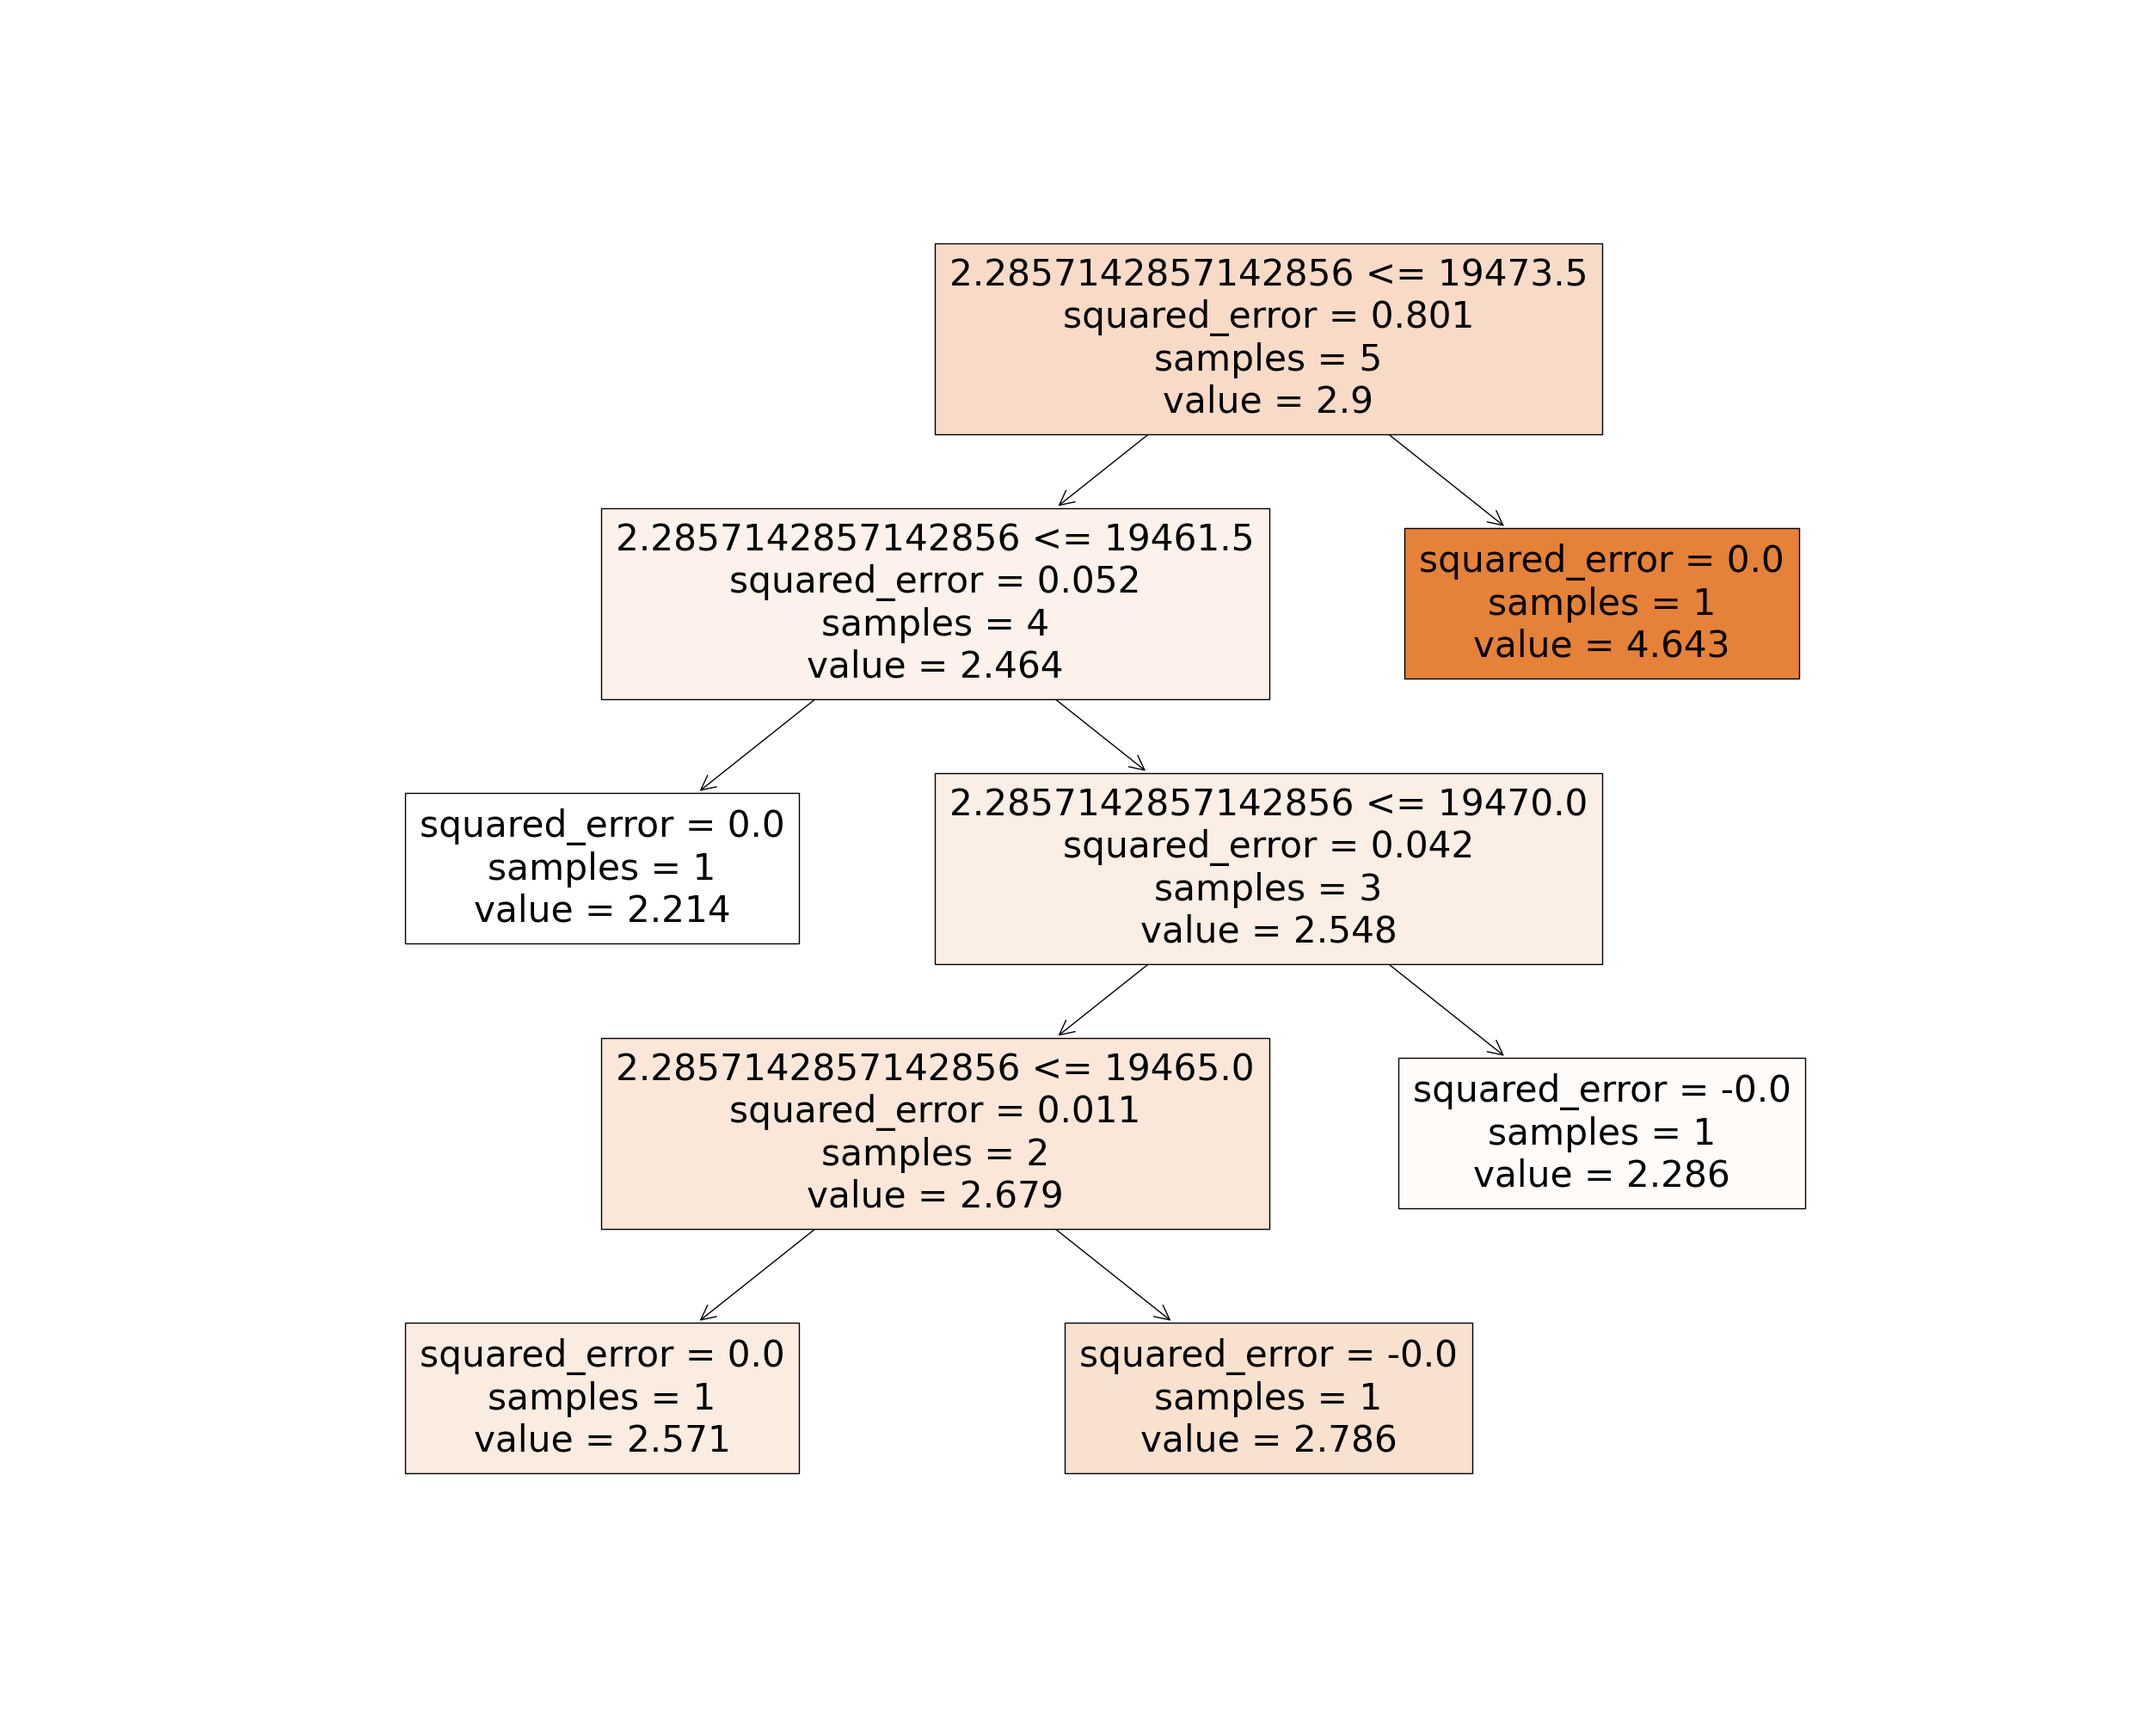
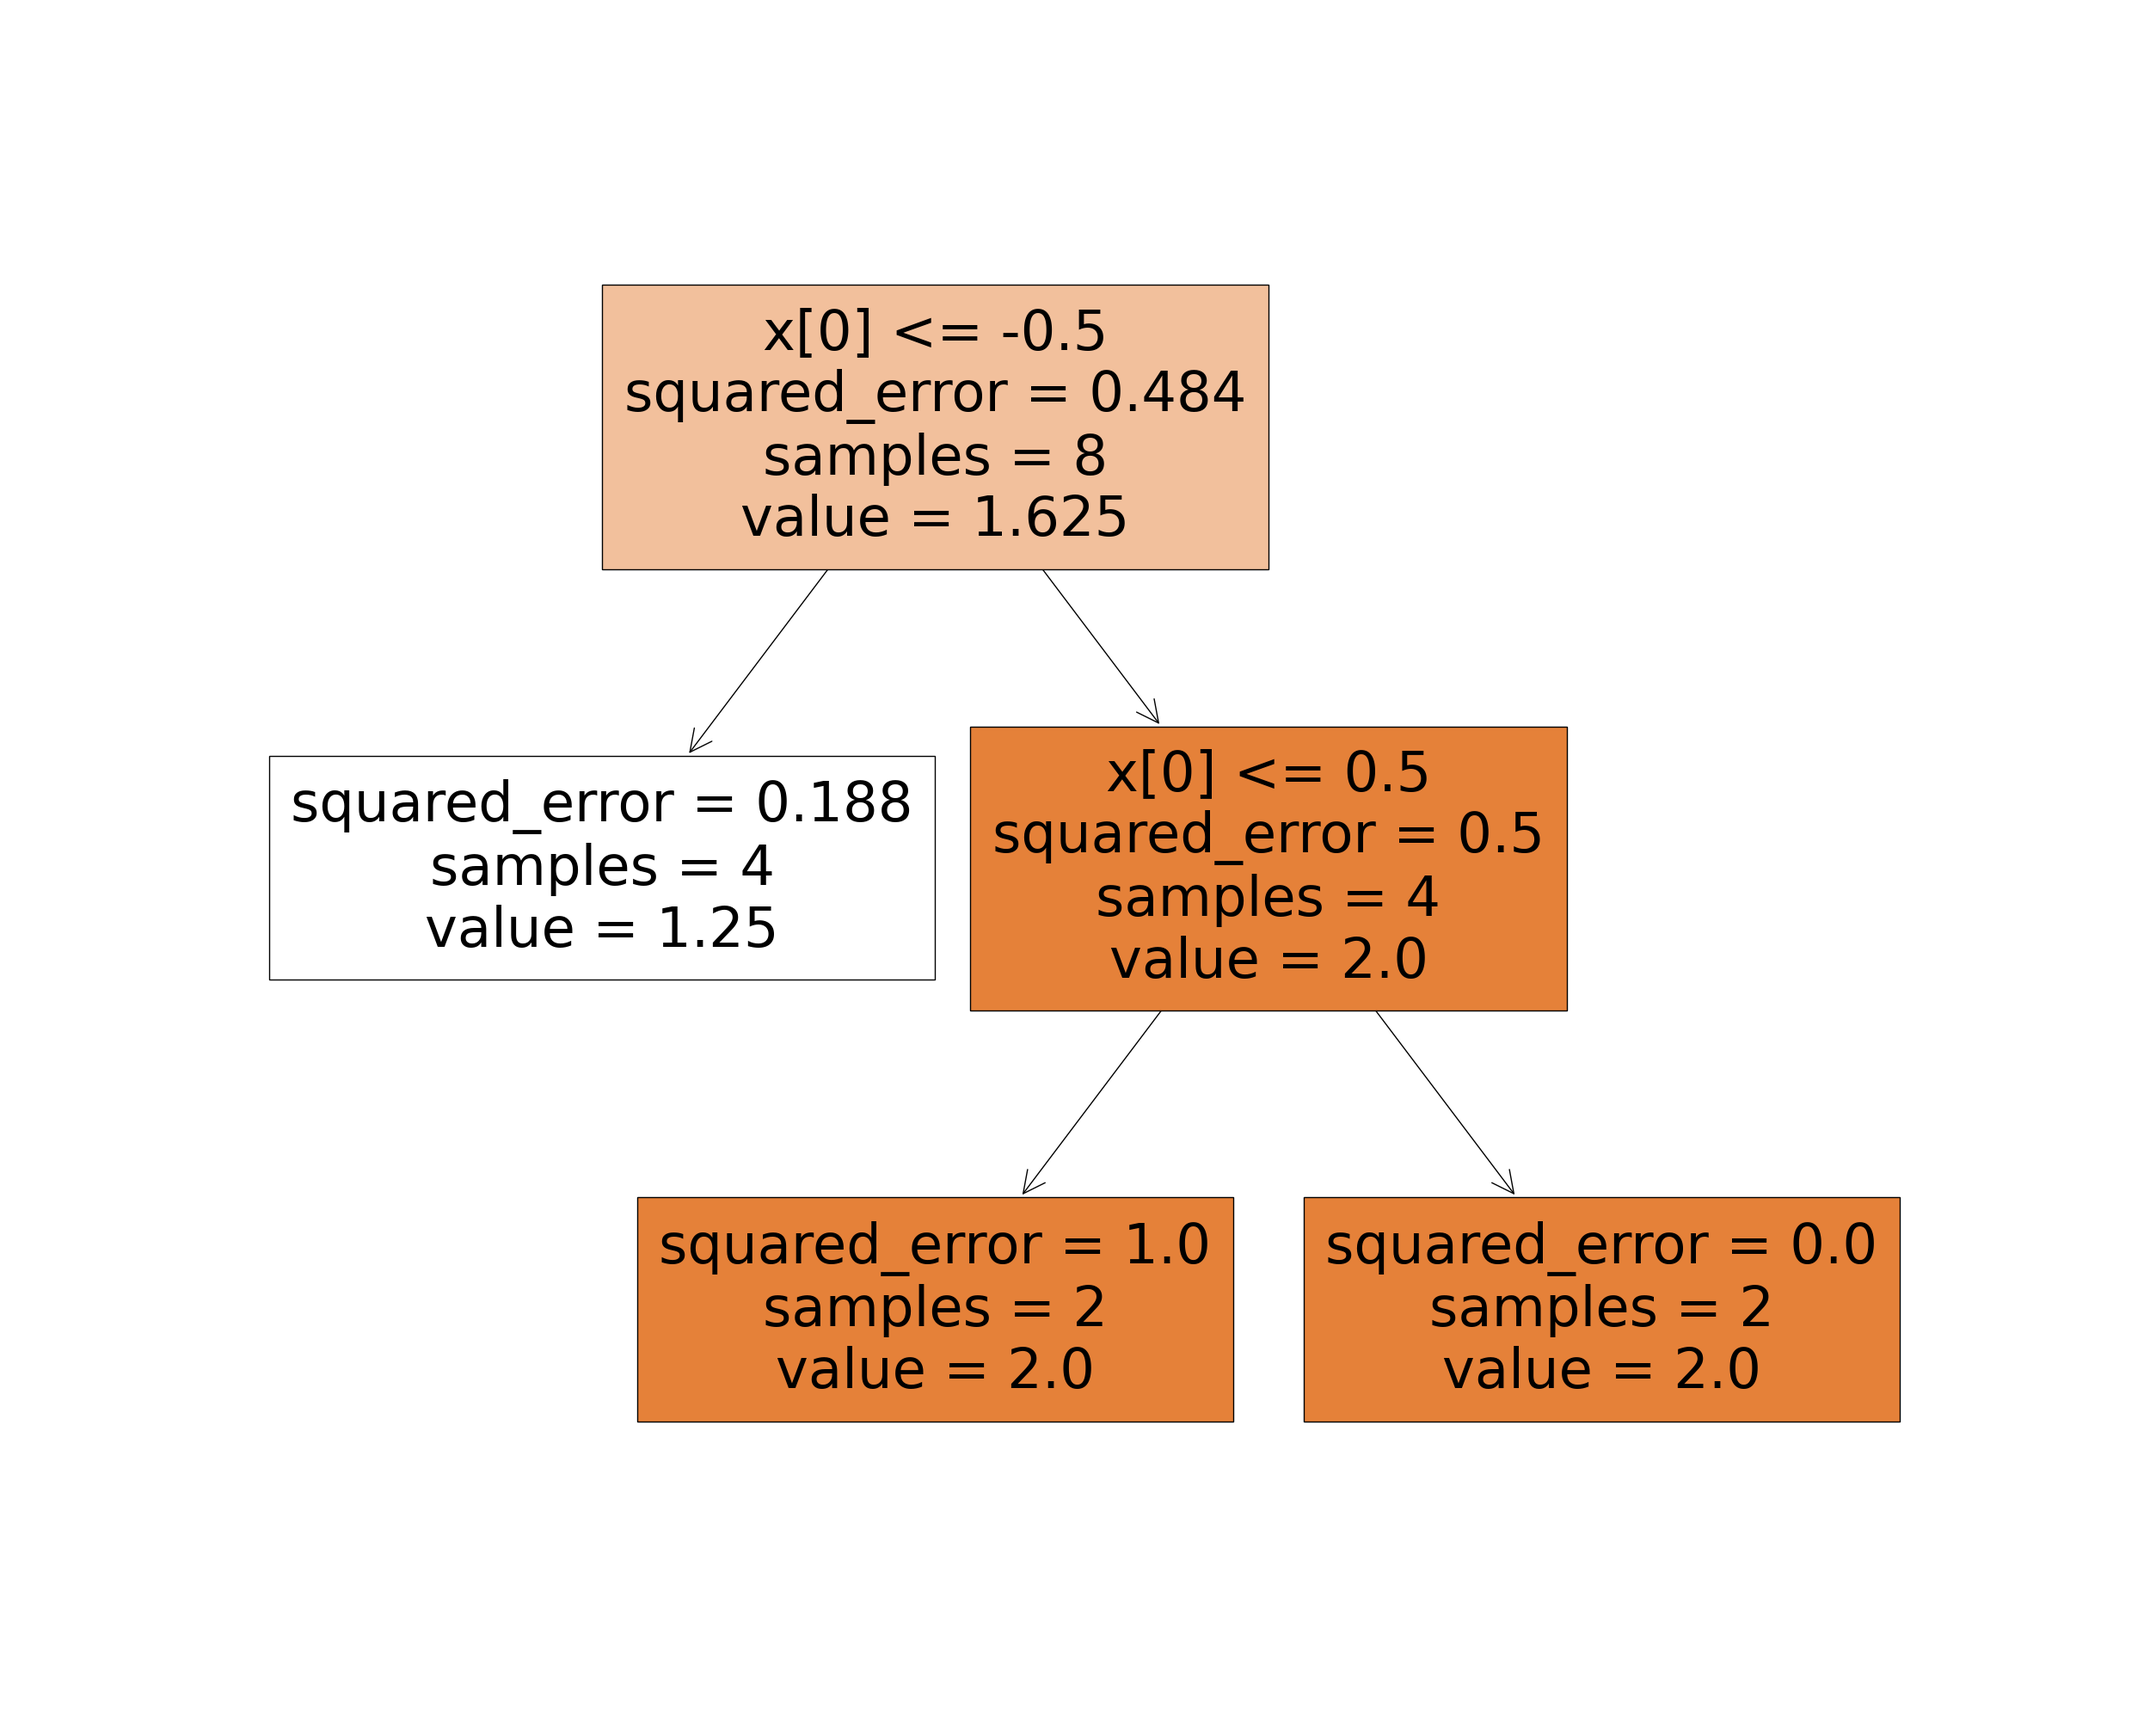
gfdsdfds

Changed region(s): [[0.1248, 0.124, 0.9048, 0.868], [0.8112, 0.62, 0.8424, 0.651]]

diff --git a/ssri_project/tests/test_digitaltwin.py b/ssri_project/tests/test_digitaltwin.py
@@ -1,0 +1,54 @@
+from src.digitaltwin import DigitalTwin
+import pytest
+from unittest.mock import MagicMock,Mock, patch
+
+model = DigitalTwin(["question1", "question2", "question3", "question4", "question5","question6,","question7",
+        "question8", "question9", "question10", "question11", "question12", "question13", "question14"])  # Assuming this is correct
+
+@pytest.fixture
+def drug_citalopram():
+    return "Citalopram"
+
+@pytest.fixture
+def drug_sertraline():
+    return "Sertraline"
+
+@pytest.fixture
+def drug_fluoxetine():
+    return "Fluoxetine"
+
+@pytest.fixture
+def drug_none():
+    return "None"
+
+def test_decide_colours_citalopram(): 
+    colour = model.decide_colours("Citalopram")
+    assert colour == "magenta"
+
+def test_decide_colours_fluoxetine(): 
+    colour = model.decide_colours("Fluoxetine")
+    assert colour == "red"
+
+def test_decide_colours_sertraline(): 
+    colour = model.decide_colours("Sertraline")
+    assert colour == "blue"
+
+def test_decide_colours_none(): 
+    colour = model.decide_colours("None")
+    assert colour == "green"
+
+# def test_total_scores_none():
+#     total_scores = model.total_scores({'id': None, 'user_id': None, 'date': None, 'antidepressant': None})
+#     assert total_scores == {'None': [(None, None)]}
+
+def test_total_scores_return_length():
+    training_data = [{'id': 26, 'user_id': 19, 'date': '2023-04-17', 'antidepressant': 'Citalopram', 'question1': 1, 'question2': 1, 'question3': 1, 'question4': 2, 'question5': 2, 'question6': 1, 'question7': 1, 'question8': 1, 'question9': 1, 'question10': 1, 'question11': 1, 'question12': 1, 'question13': 1, 'question14': 1}, {'id': 27, 'user_id': 19, 'date': '2023-04-24', 'antidepressant': 'Citalopram', 'question1': 3, 'question2': 3, 'question3': 3, 'question4': 3, 'question5': 3, 'question6': 3, 'question7': 3, 'question8': 3, 'question9': 3, 'question10': 3, 'question11': 3, 'question12': 3, 'question13': 3, 'question14': 3}]
+    result = model.total_scores(training_data)
+    assert len(result[0]) == len(result[1]) == len(result[2])
+
+def test_total_scores_output():
+    training_data = [{'id': 26, 'user_id': 19, 'date': '2023-04-17', 'antidepressant': 'Citalopram', 'question1': 1, 'question2': 1, 'question3': 1, 'question4': 2, 'question5': 2, 'question6': 1, 'question7': 1, 'question8': 1, 'question9': 1, 'question10': 1, 'question11': 1, 'question12': 1, 'question13': 1, 'question14': 1}, {'id': 27, 'user_id': 19, 'date': '2023-04-24', 'antidepressant': 'Citalopram', 'question1': 3, 'question2': 3, 'question3': 3, 'question4': 3, 'question5': 3, 'question6': 3, 'question7': 3, 'question8': 3, 'question9': 3, 'question10': 3, 'question11': 3, 'question12': 3, 'question13': 3, 'question14': 3}]
+    result = model.total_scores(training_data)
+    assert result[0] == ['Citalopram', 'Citalopram']
+    assert result[1] == [1, 3]
+    assert result[2] == ['2023-04-17', '2023-04-24']

diff --git a/ssri_project/src/user_model.py b/ssri_project/src/user_model.py
@@ -27,8 +27,10 @@ class UserModel(QtCore.QAbstractListModel):
             return con
     
     def create_user(self, username, password):
-        if username and password == None:
-            raise ValueError("Usernames and passwords cannot be blank")
+        if username == "": 
+            raise ValueError("Usernames cannot be blank. Try again.")
+        if password == "": 
+            raise ValueError("Passwords cannot be blank. Try again.")
 
         password = password.encode('utf-8')
         salt = bcrypt.gensalt(rounds=4)
@@ -41,7 +43,6 @@ class UserModel(QtCore.QAbstractListModel):
                 con.commit()
                 return True
             except IntegrityError as e: 
-                #TODO update this so it handles duplicate usernames by checking the e.message
                 print("There is a duplicate username! Please try again.")
     
     def login(self, username, password):
@@ -56,4 +57,6 @@ class UserModel(QtCore.QAbstractListModel):
                     print("Logged in")
                     cur.execute("SELECT id FROM user WHERE username = ?", (username,))
                     return cur.fetchone()
+                if not (bcrypt.checkpw(password, actual_password)):
+                    raise ValueError("The login details are incorrect. Please try again.")
         return None

diff --git a/ssri_project/src/digitaltwin.py b/ssri_project/src/digitaltwin.py
@@ -48,15 +48,21 @@ class DigitalTwin:
 
             reformatted_dataset[drug] = (dates, scores)
 
-            # Calculate weekly change in scores as the feature 
             scores = np.array(scores)
 
-            # Weekly change 
             weekly_change = np.diff(scores, prepend=scores[0]).reshape(-1, 1)
 
             decision_tree = DecisionTreeRegressor()
             decision_tree.fit(weekly_change, scores)
             models[drug] = decision_tree
+            
+            fig = plt.figure(figsize=(25,20))
+            _ = tree.plot_tree(decision_tree, 
+                    # feature_names=str(weekly_change),  
+                    # class_names=str(drug),
+                    filled=True)
+            fig.savefig("decistion_tree.png")
+
 
         fig, ax = plt.subplots()
         fig.canvas.setWindowTitle('Wellbeing Model')

diff --git a/ssri_project/src/information_processor_model.py b/ssri_project/src/information_processor_model.py
@@ -17,6 +17,7 @@ class QuestionModel(QtCore.QAbstractListModel):
         self.question = question 
         self.column_list = ["question1", "question2", "question3", "question4", "question5","question6,","question7",
         "question8", "question9", "question10", "question11", "question12", "question13", "question14"]
+    
 
     def data(self):
         return self.question
@@ -76,6 +77,7 @@ class QuestionModel(QtCore.QAbstractListModel):
 
         digital_twin = DigitalTwin(self.column_list)
         total_scores = digital_twin.total_scores(training_data)
+        print(training_data)
 
         score_dictionary = self.construct_data_dictionary(total_scores[0], total_scores[1], total_scores[2])    
         digital_twin.fit_regression_model(score_dictionary)
